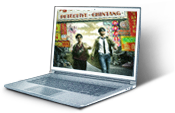
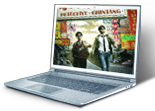
homepage bug fix

diff --git a/style/common.css b/style/common.css
@@ -212,7 +212,7 @@ footer img{
 .laptop{
   width: 30%;
   right: 0;
-  margin: -30px -10px 0 0;
+  margin: -30px 0 0 0;
 }
 footer .tuk{
   width: 26%;
